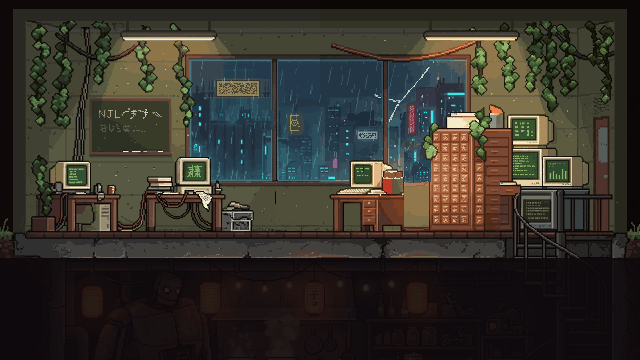
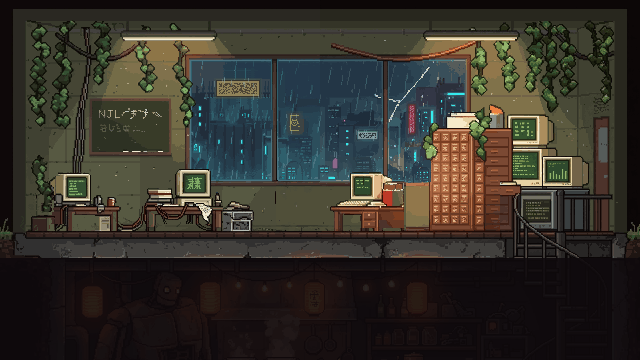
feat(art): lower lab desks and set seating by screen direction
Desks cut out of the lab section and lowered from 37px to 25px above the
floor. Hero sits back-view at the middle CRT, chief side-view inside the
window desk, both drawn in front of the desk (no front layer).

Changed region(s): [[0.5, 0.4278, 0.6562, 0.6417], [0.2188, 0.4278, 0.375, 0.6417], [0.0312, 0.4278, 0.1875, 0.6417]]

diff --git a/Docs/Design/SLICE_ASSETS.md b/Docs/Design/SLICE_ASSETS.md
@@ -32,7 +32,7 @@
 | :--- | :--- | :---: | :--- | :--- | :---: |
 | 주인공 | 서 있기 대기 | 4 | 좌 · 우(반전) + 3/4 앞 1벌 | 단면 기본, 문 앞 「あー、あー」 (T-0 끝) | ① |
 | 주인공 | 걷기 | 6 | 좌 · 우(반전) | 문 → 책상, 책상 ↔ 클립보드 · 배전반, 퇴근 | ① |
-| 주인공 | **의자에 앉기** (서기 → 앉음) | 4 | 좌 · 우(반전) | 판독 시작: 신입 책상에 앉음 → 판독 장면으로 확대 | ① |
+| 주인공 | **의자에 앉기** (서기 → 뒤돌아 앉음, 뒷모습 — §1-2) | 4 | 뒤 1방향 | 판독 시작: 신입 책상에 앉음 → 판독 장면으로 확대 | ① |
 | 주인공 | **앉아 있는 대기** | 4 | 좌 · 우(반전) | 판독 장면에서 돌아왔을 때 · T-6 스몰톡 | ① |
 | 주인공 | **일어서기** (앉음 → 서기) | — | — | 판독 끝 · `일어서기` → 연구소. **앉기를 거꾸로 재생** (새 그림 없음) | ① |
 | 주임 | 서 있기 대기 | 4 | 좌 · 우(반전) + 3/4 앞 1벌 | 단면 기본, 설명 장면 | ① |
@@ -66,13 +66,22 @@
 
 ## 1-2. 앉기 기준점 · 그리기 순서
 
-**의자 · 책상은 인물과 따로 그린다.** 앉았을 때 의자 등받이와 책상 앞판이 인물 **앞**에 그려져야 하므로(인물이 그 사이에 끼어야 함), 한 장으로 그리면 그리기 순서(Depth Sorting)를 나눌 수 없기 때문이다.
+**앉은 인물은 책상 앞에 그린다** (배경 → 인물, 앞 층 없음). 2026-11-04 오너 확정 — 주임 다리를 책상 앞판으로 가리는 안은 탈락, 인물이 책상보다 앞에 보여야 함.
+
+> **확정** (2026-11-04) — 단면의 책상 3개를 배경에서 떼어 **상판을 바닥 위 37px → 25px**로 낮춤 (앉은 인물 턱 높이였음). 옛 배경 `set3_lab/lab_section_day1_tall_desks.png`. 의자는 따로 그리지 않음 — Pixellab 앉은 캐릭터(68×68)에 의자가 함께 그려져 있음 (ART_STYLE_SHEET §5.1). 자리마다 앉는 방향은 **컴퓨터 화면 방향**에 맞춤 — 주임 CRT는 왼쪽(옆)을 보므로 주임은 옆모습으로 책상 안(무릎 공간)에 앉고, 신입 CRT는 정면을 보므로 신입은 **뒷모습**으로 책상 앞에 앉음 (결과 `set3_lab/sitting/_sitting_v3.png`).
 
 | 층 (뒤 → 앞) | 무엇 |
 | :--- | :--- |
-| 1 뒤 가구 | 의자 좌판 · 다리 · 뒤쪽 다리, 책상 상판 · 뒤판 · 상판 위 물건(CRT · 판독기 덮개 · 스탠드) |
-| 2 인물 | 앉은 인물 (다리가 책상 밑으로 들어감) |
-| 3 앞 가구 | 의자 **등받이**(인물 등 쪽, 화면 방향에 따라 좌/우) · 책상 **앞판 · 앞다리** (다리를 가림) |
+| 1 배경 | `lab_section_day1.png` — 낮춘 책상 · 상판 위 물건(CRT · 책 · 바인더) 포함. 상판 위 상태 소품(판독기 덮개 · 상자 · 스탠드)은 이 위에 얹음 |
+| 2 인물 | 앉은 인물 + 의자 한 그림 — 책상보다 앞 |
+
+| 자리 | 책상 | 상판 윗면 y | 앉은 스프라이트 (68×68) | 캔버스 왼쪽 x | 그림 바닥 y |
+| :--- | :--- | :---: | :--- | :---: | :---: |
+| 신입 | 가운데 책상 (CRT 「漢」 화면) x 144–223 | 205 | **뒷모습**(north) — 머리가 화면 왼쪽에 와서 화면이 보임 | 142 | 233 |
+| 주임 | 창가 서랍 책상 x 330–404 | 206 | 옆모습 오른쪽 봄(east) — 책상 안쪽(무릎 공간 앞)에 붙어 앉음, 인물이 책상 앞 | 309 | 231 |
+| (빈 책상) | 왼쪽 책상 · 본체 · 화분 x 34–122 — 앉는 자리 없음 | 206 | — | — | — |
+
+아래 기준점 규칙은 의자를 따로 그리던 때의 것이다. 지금은 위 표의 자리 값을 쓰고, 앉기 애니메이션을 만들 때 이 값에 맞춘다.
 
 **앉기 기준점 규칙** — 한 벌의 앉기 애니메이션을 모든 의자에 쓰기 위해:
 
@@ -94,7 +103,7 @@
 | `intro_city_v2.png` (옛 `intro_street_rain`) | 640×360 | 1장 — 고층 빌딩 숲 · 공중 다리 · 안개 (간판 · 사람 · 차 없음, 2026-11-04 오너 결정). 비 · 안개는 `코드` | T-0 도시 | ① | ✅ Pixellab Pro (오너 참고 이미지의 색 · 명암만) — `Docs/Art/Inbox/set5_intro/` |
 | `intro_sign_closeup.png` | 320×180 (×4 표시) | 1장 — 번화가 가게 앞: 코드 간판: 긴 가로 간판 · 얇고 긴 세로 막대 · 작은 판 2 · 라멘 그림 간판 안 짧은 빨간 코드 · 벽에 칠한 코드(오른쪽 위, 불빛 없음 · 가장자리 여백), 모서리 기준 네모 없는 불규칙 무늬 · 그릇 홀로그램 1 · 젖은 바닥. 번역 글자(라멘 · 식당 · 출입 금지 · 가격)는 `코드` | T-0 D1-006 · 007 · 015 확대 컷 | ① | ✅ Pixellab Pro 10회 + 부분 고침 10회 + `Claude` 코드 무늬 — `Docs/Art/Inbox/set5_intro/intro_sign_closeup_v4.png` |
 | `intro_building.png` | 320×180 (×4 표시) | 1장 — 비 오는 골목 끝 낡은 3층 벽돌 건물 · 담쟁이 · 불 켜진 창 1 · 문 위 등. 문 위 간판(약 135,78–186,93)은 `코드`가 모자이크로 덮음 | T-0 D1-023 골목 끝 · 목소리 고르기 배경 | ② | ✅ Pixellab Pro 10회 (연구소 단면 참고) — `Docs/Art/Inbox/set5_intro/intro_building_v1.png` |
-| `lab_section_day1.png` | 640×360 | 창밖 간판 다시 그림 (2026-11-04, Pixellab 부분 고침 60회 + 코드 무늬 · 고양이 그림 `Claude`): 왼쪽 호박 가로 코드(빛 낮춤) · 고양이 얼굴 그림 · 가운데 흰 가로 코드 · 오른쪽 빨간 세로 코드, 정사각형 QR · 라멘 없음. 잉어 홀로그램은 배경에서 빼서 `set3_lab/window/holo_koi_strip.png` (6프레임, 위치 `holo_koi.txt`). 창 유리 마스크 `window_glass_mask.png`, 네온 깜빡임 마스크 `neon_mask.png`+`.json`, 날아다니는 차 `car_near_top`(CAR6, 위쪽 길) · `car_near`(CAR39, 아래쪽 길, 오너 선택) · `car_mid` · `car_far` · `car_lights`(불빛만) + `cars.json` (모두 오른쪽을 봄 — 왼쪽으로 갈 때만 뒤집기, 창 밖에서 들어와 끝까지 지나감). 잉어 앞 분홍 간판 · 모니터 위 막대와 종이는 지움. 간판은 비 · 유리 너머로 보이게 대비를 낮추고 유리색을 30% 섞음. 원본 `lab_section_day1_qrsquare.png`. 층 분리: 뒤(벽 · 창 · 선반) / 가운데(가구) / 앞(전선 · 담쟁이) / 잠긴 아래층 실루엣 | 연구소 단면 — D1 대부분 | ① | 오너 (구도) + `Claude` (층 분리 · 팔레트) |
+| `lab_section_day1.png` | 640×360 | 창밖 간판 다시 그림 (2026-11-04, Pixellab 부분 고침 60회 + 코드 무늬 · 고양이 그림 `Claude`): 왼쪽 호박 가로 코드(빛 낮춤) · 고양이 얼굴 그림 · 가운데 흰 가로 코드 · 오른쪽 빨간 세로 코드, 정사각형 QR · 라멘 없음. 잉어 홀로그램은 배경에서 빼서 `set3_lab/window/holo_koi_strip.png` (6프레임, 위치 `holo_koi.txt`). 창 유리 마스크 `window_glass_mask.png`, 네온 깜빡임 마스크 `neon_mask.png`+`.json`, 날아다니는 차 `car_near_top`(CAR6, 위쪽 길) · `car_near`(CAR39, 아래쪽 길, 오너 선택) · `car_mid` · `car_far` · `car_lights`(불빛만) + `cars.json` (모두 오른쪽을 봄 — 왼쪽으로 갈 때만 뒤집기, 창 밖에서 들어와 끝까지 지나감). 잉어 앞 분홍 간판 · 모니터 위 막대와 종이는 지움. 간판은 비 · 유리 너머로 보이게 대비를 낮추고 유리색을 30% 섞음. 원본 `lab_section_day1_qrsquare.png`. 책상 3개는 배경에서 떼어 상판을 25px로 낮춤 (2026-11-04, §1-2) — 옛 높이 `lab_section_day1_tall_desks.png`. 층 분리: 뒤(벽 · 창 · 선반) / 가운데(가구) / 앞(전선 · 담쟁이) / 잠긴 아래층 실루엣 | 연구소 단면 — D1 대부분 | ① | 오너 (구도) + `Claude` (층 분리 · 팔레트) |
 | `lab_light_layers` | 640×360 층 3장 | **실내 밝기 층**: ① 스탠드 전(어두움 — 형광등 하나 · CRT 녹색 · 창밖 시안만) ② 스탠드 후(호박 불빛 웅덩이 + 실내 따뜻하게) ③ 밤(창 어둡게 · 창밖 간판 진하게). 그림 한 장 위에 곱하기/더하기로 얹음 | T-1~T-8 / T-8 끝 「あかるい!」 / T-9 (ART_STYLE_SHEET §3.1) | ① | `Claude` 층 + `코드` 전환 |
 | `prop_fluorescent.png` | 48×6 | 켜짐 / 깜빡임(꺼짐 1프레임) | 천장 형광등 하나 — 스탠드 전 유일한 실내등 | ② | `Claude` |
 | `desk_reader_bg.png` | **320×180 (×4 표시)** | 탑다운 책상 + 판독기 · 인쇄기 · 모니터 · 문서 더미 · 처리함이 붙은 바닥 층 (움직이는 부품 없음) | 판독 장면 배경 | ① | ✅ `Claude` — `Docs/Art/Inbox/set2_objects/topdown/detail_static_v1.png` (오른쪽 위 비스듬한 모니터 원래 크기` |
@@ -128,9 +137,9 @@
 | `prop_ceiling_leak.png` | 40×16 | 누수 얼룩 / 패치 붙음 | 천장 (T-3 수리) | ② | ✅ `Claude` 손그림 (오너가 Pro판보다 이쪽을 고름, 2026-11-04) — `final/prop_ceiling_leak_{stain,patched}.png` |
 | `prop_book_pile.png` | 40×36 | 쌓임 / 무너짐 (3프레임) | 주임 책상 앞 책 더미 (T-1) | ② | ✅ Pixellab Pro(측면) + 무너짐 2프레임은 `Claude` — `final/prop_book_pile_{0,1,2}.png` |
 | `prop_board_staff.png` | 56×40 | 「常駐人員: 1」 / 「2」 | 벽 게시판 (T-1) | ② | ✅ Pixellab Pro + 분필 획 `Claude` — `final/prop_board_staff_{1,2}.png` (「常駐人員」 글자는 `코드`) |
-| `prop_desk_chief.png` | 80×44 | **뒤 층**(상판 · 뒤판 · CRT · 서류 · 이름표 자리) / **앞 층**(앞판 · 앞다리) 2장 | 주임 책상 — 앉은 주임 다리를 앞 층이 가림 (§1-2) | ① | 오너 또는 `Claude` |
-| `prop_desk_trainee.png` | 72×40 | 뒤 층 · 앞 층 2장 + 상판 위 상태: 비어 있음 / 판독기 덮개 / 상자 놓임 / 쪽지 파일 꽂힘 | 신입 책상 (단면에서 누르면 판독) | ① | `Claude` |
-| `prop_chair_office.png` | 28×36 | **좌판 · 다리 층** / **등받이 층** 2장 + `seat` 기준점 (바닥 위 14px) | 주임 · 신입 의자 (같은 의자 2개, 색만 다르게 가능) — §1-2 | ① | `Claude` |
+| `prop_desk_chief.png` | — | 배경에 포함 (앞 층 없음 — 주임이 책상 앞에 그려짐, §1-2) | 주임 책상 | ① | ✅ `Claude` (배경에서 떼어 낮춤, 빈 벽 Pixellab 부분 고침 5회) |
+| `prop_desk_trainee.png` | — | 배경에 포함 · 앞 층 없음(신입은 뒷모습으로 앉음) + 상판 위 상태 소품: 비어 있음 / 판독기 덮개 / 상자 놓임 / 쪽지 파일 꽂힘 (상태 소품은 아직) | 신입 책상 (단면에서 누르면 판독) | ① | 책상 낮춤 ✅ `Claude` (빈 벽 부분 고침 10회, 왼쪽 책상 포함) |
+| ~~`prop_chair_office.png`~~ | — | 만들지 않음 — 앉은 캐릭터 그림에 의자 포함 (§1-2) | — | — | — |
 | `prop_box.png` | 24×18 | 닫힘 / 열림(머그 · 충전기 · 접힌 종이) | 짐 상자 (T-3) | ② | ✅ Pixellab Pro + 열림은 `Claude` — `final/prop_box_{closed,open}.png` |
 | `prop_memo_masked.png` | 확대 컷 200×120 + 소품 8×10 | 쪽지 「きみは、[■]らめろ」 연필 손글씨, [■] 모자이크 / 투명 파일 | T-3 확대 · 이후 상시 소품 | ② | 소품 8×10 ✅ `Claude` 손그림 (`_old_hand/prop_memo_file.png`, 다시 볼 것) · 확대 컷은 아직 (손글씨는 오너 확인) |
 | `prop_mug_{new,old}.png` | 10×10 | 새 머그 / 이 나간 낡은 머그 (해 하나 · 사람 둘 그림) | T-4 · T-9 | ② | ✅ Pixellab Pro + 낡은 머그는 `Claude` — `final/prop_mug_{new,old}.png` |

diff --git a/Docs/Design/ART_STYLE_SHEET.md b/Docs/Design/ART_STYLE_SHEET.md
@@ -112,8 +112,8 @@
 
 ### 5.1-1 앉기 · 가구 분리
 
-- 의자 · 책상은 인물과 **따로 그린다** — 앉았을 때 등받이 · 책상 앞판이 인물 앞에 그려져야 해서 그리기 순서(뒤 가구 → 인물 → 앞 가구)를 나눠야 하기 때문.
-- 인물의 앉은 엉덩이 기준점 = 캔버스 (24, 32), 표준 의자 좌석 높이 = 바닥 위 14px. 자세한 규칙은 [SLICE_ASSETS §1-2](SLICE_ASSETS.md).
+- 앉은 인물은 책상 **앞**에 그린다 (배경 → 인물, 책상 앞 층 없음 — 2026-11-04 오너 확정). 의자는 앉은 캐릭터 그림에 함께 들어 있다.
+- 책상 상판 높이 = 바닥 위 **25px** (68px 캐릭터 기준, 2026-11-04 37px에서 낮춤). 앉는 방향은 그 자리 컴퓨터 화면 방향에 맞춘다 (화면이 정면이면 뒷모습, 옆이면 옆모습). 자리 값은 [SLICE_ASSETS §1-2](SLICE_ASSETS.md).
 
 ### 5.2 인물별 방향
 
